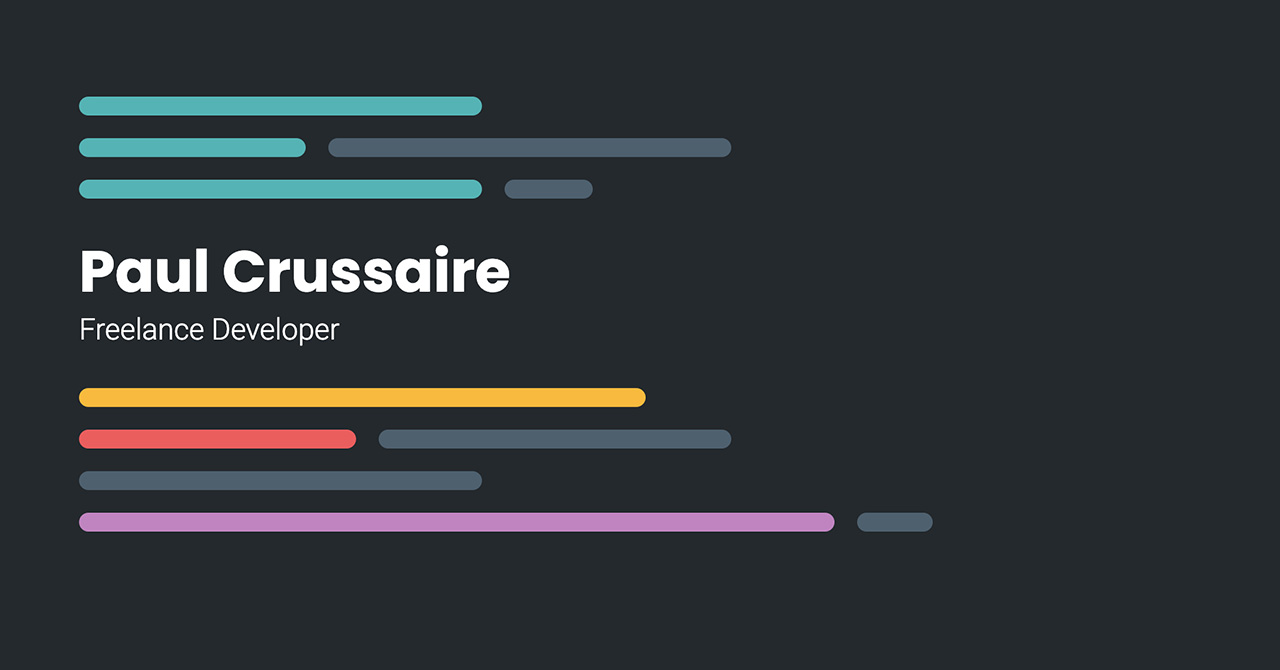
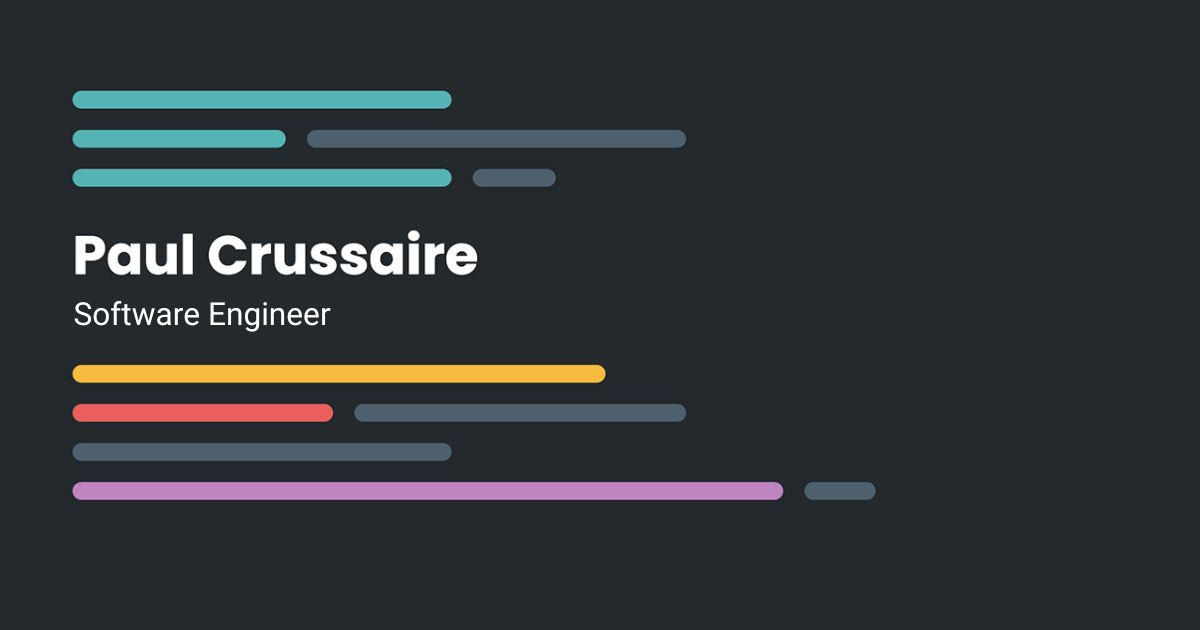
style: job title

Changed region(s): [[0.0617, 0.573, 0.5242, 0.6032], [0.0617, 0.3619, 0.4008, 0.4524], [0.0617, 0.4825, 0.2775, 0.5429]]

diff --git a/index.html b/index.html
@@ -3,29 +3,29 @@
   <head>
     <meta name="viewport" content="width=device-width" />
     <meta charset="utf-8" />
-    <title>Paul Crussaire | Developer</title>
+    <title>Paul Crussaire | Software Engineer</title>
     <link rel="icon" type="image/x-icon" href="assets/favicon.ico" />
 
     <!-- og -->
-    <meta property="og:url" content="https://www.paul.crussaire.com" />
-    <meta property="og:title" content="Paul Crussaire | Freelance Developer" />
+    <meta property="og:url" content="https://www.devpolo.com" />
+    <meta property="og:title" content="Paul Crussaire | Software Engineer" />
     <meta property="og:locale" content="fr_FR" />
     <meta
       property="og:description"
-      content="Paul Crussaire is a freelance software developer based in Paris."
+      content="Paul Crussaire is a software engineer based in Paris."
     />
     <meta
       name="description"
-      content="Paul Crussaire is a freelance software developer based in Paris."
+      content="Paul Crussaire is a software engineer based in Paris."
     />
     <meta
       property="og:image"
-      content="https://paul.crussaire.com/assets/meta/preview.jpeg"
+      content="https://devpolo.com/assets/meta/preview.jpeg"
     />
     <meta property="og:type" content="website" />
     <meta
       property="og:site_name"
-      content="Paul Crussaire | Freelance Developer"
+      content="Paul Crussaire | Software Engineer"
     />
 
     <!-- styles -->
@@ -63,7 +63,7 @@
         </div>
         <div class="introduction">
           <h1>Paul Crussaire</h1>
-          <h2>Developer</h2>
+          <h2>Software Engineer</h2>
         </div>
         <div class="lines-group">
           <div class="line bg-yellow w-45"></div>
